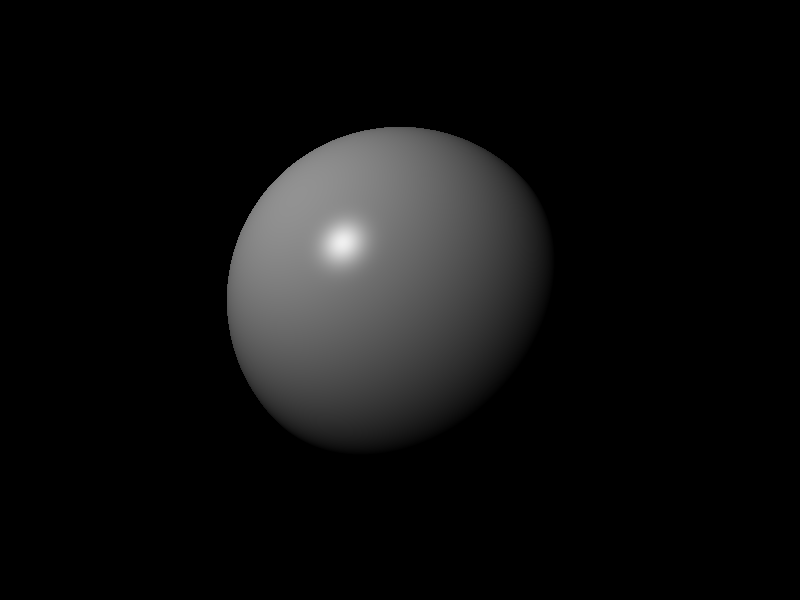
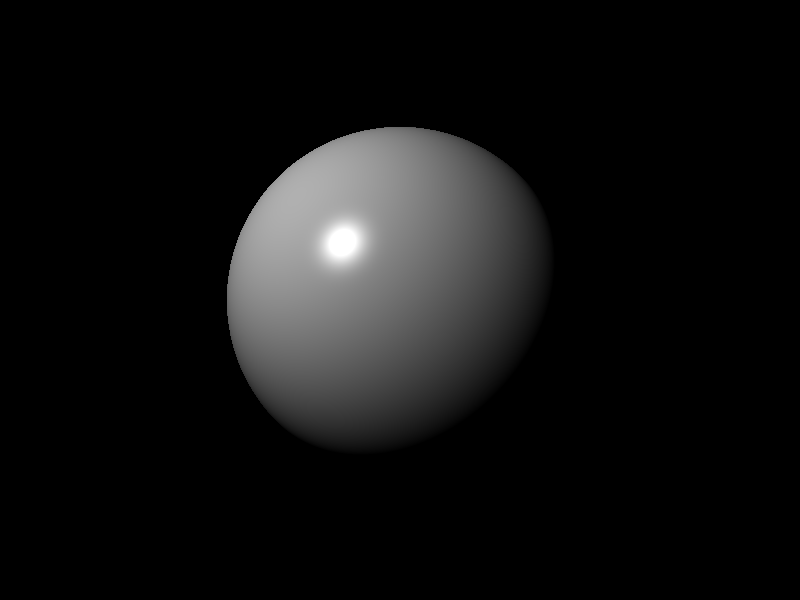
post: added tone mapping

Changed region(s): [[0.2812, 0.24, 0.4688, 0.48]]

diff --git a/src/bin/raytrace.rs b/src/bin/raytrace.rs
@@ -29,6 +29,9 @@ struct CLI {
     #[arg(long, help="Final image gamma correction")]
     gamma: Option<f32>,
 
+    #[arg(long, help="Final image camera exposure")]
+    exp: Option<f32>,
+
     #[arg(long, help="Ray bounce energy loss")]
     loss: Option<f32>,
 
@@ -87,7 +90,8 @@ struct Camera {
     pos: Vec3f,
     dir: Vec3f,
     fov: f32,
-    gamma: f32
+    gamma: f32,
+    exp: f32
 }
 
 #[derive(Serialize, Deserialize, Debug)]
@@ -318,7 +322,8 @@ impl Default for Camera {
             pos: Vec3f(0.0, -1.0, 0.0),
             dir: Vec3f(0.0, 1.0, 0.0),
             fov: 90.0,
-            gamma: 0.8
+            gamma: 0.8,
+            exp: 0.2
         }
     }
 }
@@ -542,6 +547,10 @@ fn main() {
         frame.cam.gamma = gamma;
     }
 
+    if let Some(exp) = cli.exp {
+        frame.cam.exp = exp;
+    }
+
     if let Some(cam_args) = cli.cam {
         let mut it = cam_args.iter();
 
@@ -655,9 +664,12 @@ fn main() {
                 // raycast
                 let samples = (0..rt_syc_c.sample).map(|_| rt_syc_c.raytrace(Vec2f(x as f32, y as f32), &scene_syc_c, &frame_sync_c));
                 let col = samples.fold(Vec3f::default(), |acc, v| acc + v) / (rt_syc_c.sample as f32);
-                
+
                 // gamma correction
-                let final_col = col.to_array().map(|v| (v).powf(frame_sync_c.cam.gamma));
+                let mut final_col = col.to_array().map(|v| (v).powf(frame_sync_c.cam.gamma));
+
+                // tone mapping (Reinhard's)
+                final_col = final_col.map(|v| v * (1.0 + v / ((1.0 - frame_sync_c.cam.exp) as f32).powi(2)) / (1.0 + v));
 
                 // set pixel
                 let mut guard = guard_c.lock().unwrap();

diff --git a/README.md b/README.md
@@ -22,13 +22,14 @@ Tiny raytracing microservice.
 Usage: raytrace [OPTIONS]
 
 Options:
-  -v, --verbose                         Print frame and scene json info
-      --pretty                          Print frame and scene json info with pretty
+  -v, --verbose                         Print full info in json
+      --pretty                          Print full info in json with prettifier
   -d, --dry                             Dry run (useful with verbose)
   -o, --output <FILE.EXT>               Final image output filename
       --bounce <BOUNCE>                 Max ray bounce
       --sample <SAMPLE>                 Max path-tracing samples
       --gamma <GAMMA>                   Final image gamma correction
+      --exp <EXP>                       Final image camera exposure
       --loss <LOSS>                     Ray bounce energy loss
   -u, --update                          Save output on each sample
   -w, --worker <WORKER>                 Parallel workers count
@@ -72,7 +73,7 @@ raytrace --sphere r: 0.2 albedo: 1 0.92 0.6 emit \
          --sphere r: 100 pos: 0 101 0 rough: 1 \
          --sphere r: 100 pos: -101 0 0 albedo: 1 0 0 rough: 1 \
          --sphere r: 100 pos: 101 0 0 albedo: 0 1 0 rough: 1 \
-         --cam pos: 0 -2 0.5 fov: 60 gamma 0.42 \
+         --cam pos: 0 -2 0.5 fov: 60 gamma 0.4 exp: 0.5 \
          --sample 1024
 ```
 
@@ -172,7 +173,8 @@ raytrace --sphere r: 0.2 albedo: 1 0.92 0.6 emit \
         "pos": [0, -2, 0.5],
         "dir": [0, 1, 0],
         "fov": 60,
-        "gamma": 0.42
+        "gamma": 0.4,
+        "exp": 0.5
     }
 }
 ```
@@ -193,7 +195,7 @@ raytrace -v -d --sphere --light pos: -0.5 -1 0.5
 ```
 
 ```json
-{"frame":{"cam":{"dir":[0.0,1.0,0.0],"fov":90.0,"gamma":0.800000011920929,"pos":[0.0,-1.0,0.0]},"res":[800,600]},"rt":{"bounce":8,"loss":0.15000000596046448,"sample":16},"scene":{"light":[{"color":[1.0,1.0,1.0],"pos":[-0.5,-1.0,0.5],"pwr":0.5}],"renderer":[{"mat":{"albedo":[1.0,1.0,1.0],"emit":false,"glass":0.0,"metal":0.0,"opacity":1.0,"rough":0.0},"pos":[0.0,0.0,0.0],"r":0.5,"type":"sphere"}],"sky":[0.0,0.0,0.0]}}
+{"frame":{"cam":{"dir":[0.0,1.0,0.0],"fov":90.0,"gamma":0.8,"exp":0.2,"pos":[0.0,-1.0,0.0]},"res":[800,600]},"rt":{"bounce":8,"loss":0.15,"sample":16},"scene":{"light":[{"color":[1.0,1.0,1.0],"pos":[-0.5,-1.0,0.5],"pwr":0.5}],"renderer":[{"mat":{"albedo":[1.0,1.0,1.0],"emit":false,"glass":0.0,"metal":0.0,"opacity":1.0,"rough":0.0},"pos":[0.0,0.0,0.0],"r":0.5,"type":"sphere"}],"sky":[0.0,0.0,0.0]}}
 ```
 
 2. With prettifier:
@@ -207,14 +209,15 @@ raytrace -v -d --pretty --sphere --light pos: -0.5 -1 0.5
         "cam": {
             "dir": [0, 1, 0],
             "fov": 90,
-            "gamma": 0.800000011920929,
+            "gamma": 0.8,
+            "exp": 0.2,
             "pos": [0, -1, 0]
         },
         "res": [800, 600]
     },
     "rt": {
         "bounce": 8,
-        "loss": 0.15000000596046448,
+        "loss": 0.15,
         "sample": 16
     },
     "scene": {
